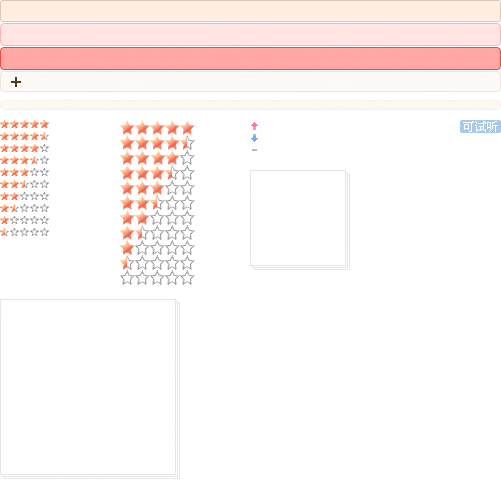
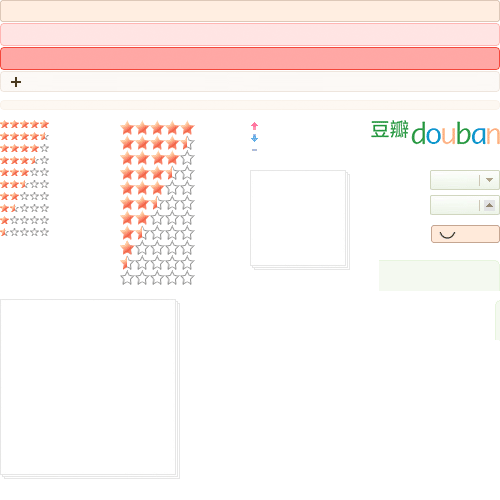
header & footer complete.

diff --git a/docs/test_header.html b/docs/test_header.html
@@ -7,10 +7,10 @@
 	<link rel="stylesheet" href="core.css" type="text/css" media="screen" charset="utf-8">
 
 	<style>
-.db-nav { width:950px;margin:0 auto; }
-.db-nav:after,.nav-sub:after { content:'\0020';display:block;clear:both;height:0; }
-.db-nav .hot { margin-left:1.2em; }
-.db-nav a.hot:link, .db-nav a.hot:link, .db-nav a.hot:hover, .db-nav a.hot:active { color:#e15225; }
+.db-nav { width:100%;margin:0 auto; }
+.db-nav:after, .nav-sub:after { content:'\0020';display:block;clear:both;height:0; }
+.db-nav a.hot { margin-left:1.2em; }
+.db-nav .nav-item a.hot, .db-nav a.hot, .db-nav a.hot:link, .db-nav a.hot:link, .db-nav a.hot:hover, .db-nav a.hot:active { color:#e15225; }
 .nav-logo, .nav-item, .nav-sub { float:left; }
 .nav-logo { background:url(core.png) no-repeat -356px -116px; } 
 .nav-logo a { display:block;width:165px;height:34px;overflow:hidden;line-height:20; }
@@ -19,24 +19,45 @@
 .nav-item li { float:left;margin:0 .5ex; }
 .nav-item li a, .nav-item li a:link, .nav-item li a:visited, .nav-item li a:hover, .nav-item li a:active { display:block;font-size:14px;color:#368332;padding:.5ex 1.2ex .2ex 1.2ex; } 
 .nav-item li a:hover, .nav-item li a:active { background-color:transparent;text-decoration:underline; }
-.nav-item li.on { background:url(core.png) no-repeat 100% -280px; }
-.nav-item li.on a, .nav-item li.on a:link, .nav-item li.on a:visited, .nav-item li.on a:hover, .nav-item li.on a:active { color:#000;background:url(core.png) no-repeat -496px -320px; } 
+.nav-item li.on { background:url(core.png) no-repeat 100% -260px; }
+.nav-item li.on a, .nav-item li.on a:link, .nav-item li.on a:visited, .nav-item li.on a:hover, .nav-item li.on a:active { color:#000;background:url(core.png) no-repeat -495px -300px; } 
 .nav-srh { float:right;margin:1.6ex 0 0 0;}
 .nav-srh fieldset { _display:inline; }
 .nav-srh legend { display:none; }
-.db-nav .srh-item, .db-nav .srh-submit { float:left; } 
-.srh-item input { border:1px solid #d6d6d6;padding:2px;margin-right:1ex;line-height:1.1;height:14px;*float:left; }
-.srh-submit { height:20px;background:url(core.png) no-repeat -380px -170px; }
-.srh-submit input { border:0;background:transparent;font-size:12px;padding:3px 0;width:4em;text-align:center;cursor:pointer; }
-.srh-submit a {}
+.nav-srh .srh-item, .db-nav .srh-submit { float:left; } 
+.nav-srh .srh-item input { border:1px solid #d6d6d6;padding:2px;margin-right:1ex;line-height:1.1;height:14px;*float:left; }
+.nav-srh .srh-submit { position:relative;width:70px;height:20px;background:url(core.png) no-repeat -430px -170px; }
+.nav-srh .on { background-position:-430px -195px; }
+.nav-srh .srh-submit input { border:0;background:transparent;font-size:12px;padding:3px 0;width:50px;text-align:center;cursor:pointer; }
+.nav-srh .srh-submit a { position:absolute;right:4px;top:4px;width:12px;height:12px;overflow:hidden;line-height:4; }
+.nav-srh .srh-submit a:hover,.nav-srh .srh-submit a:active { background-color:transparent; } 
+.srh-opt { position:absolute;width:70px;padding:5px 0;text-align:center;z-index:1;border:1px solid #c5cfad;background:#fff; }
+.srh-opt li { width:100%; } 
+.srh-opt a { display:block; } 
+.nav-srh .srh-opt { display:none; }
 .nav-sub { clear:both;width:100%;border-top:1px solid #e8f5df;background:#f3f9ef;padding:.4em 0; }
 .nav-subitem { float:left;width:100%;margin-right:-200em;text-align:center; }
 .nav-subitem ul { margin-left:-20%; } 
 .nav-info { position:relative;float:right; }
 .nav-info a { margin-right:1.5ex; }
 .nav-subitem li { display:inline;margin:0 1em; }
-	</style>
-	
+
+/* Footer Rules */
+.db-services { width:100%;margin-bottom:1em;overflow:hidden;line-height:2;border-top:1px dashed #ddd;color:#999;padding-top:.2ex; }
+.db-services .services { float:left;margin-right:4em;*margin-right:2.6em; }
+.db-services .basic { width:100%;overflow:hidden;margin:0; } 
+.db-services .basic li { float:left;margin-right:4.2em; *margin-right:3.6em; } 
+.db-services .last,
+.db-services .basic .last { margin:0; }
+.db-services a.first:link, .db-services a.first:visited { color:#369; }
+.db-services a.first:hover, .db-services a.first:active { color:#fff;background:#039; }
+.db-services a:link, .db-services a:visited { color:#999; }
+.db-services a:hover, .db-services a:active { color:#fff;background:#999; }
+.db-inc { clear:both;color:#999;padding-bottom:1em; }
+.db-inc .about { float:right; }
+
+</style>
+
 </head>
 <body>
 
@@ -51,9 +72,19 @@
 		<fieldset>
 			<legend>搜索：</legend>
 			<span class="srh-item"><input name="search_text" title="书籍、电影、音乐" type="text" size="22" maxlength="60" value=""></span>
-			<span class="srh-submit"><input type="submit" value="搜索"><a href="#">更多</a></span>
+			<span class="srh-submit"><input type="submit" value="搜 索"><a href="#">更多</a></span>
 		</fieldset>
 	</form>
+	<div class="srh-opt">
+		<ul>
+			<li> <a href="/subject_search?cat=1001">书籍</a> </li>
+			<li> <a href="/subject_search?cat=1002">电影</a> </li>
+			<li> <a href="/subject_search?cat=1003">音乐</a> </li>
+			<li> <a href="/group/search">小组</a> </li>
+			<li> <a href="/people_search">成员</a> </li>
+			<li> <a href="/event/search">活动</a> </li>
+		</ul>
+	</div>
 	</div>
 
 	<div class="nav-item">
@@ -86,6 +117,66 @@
 </div>
 
 content...
+
+<div id="ft" style="width:950px;margin:0 auto;">
 	
+
+<h3>登录前</h3>
+
+<div class="db-services">
+<div class="services basic">
+<ul>
+	<li><a href="/book/" class="first">读书</a> - <a href="/book/review/best/">热评</a> - <a href="/book/chart">排行榜</a> - <a href="/book/browse">分类浏览</a></li>
+	<li><a href="/music/" class="first">音乐</a> - <a href="/artists/">音乐人</a> - <a href="/music/review/best/">热评</a> - <a href="/music/chart">排行榜</a> - <a href="/music/tag/">分类浏览</a></li>
+	<li><a href="/movie/" class="first">电影</a> - <a href="/movie/review/best/">热评</a> - <a href="/movie/chart">排行榜</a> - <a href="/movie/tag/">分类浏览</a> - <a href="/movie/tv/">电视剧</a></li>
+	<li class="last"><a href="/event/" class="first">同城</a> - <a href="/hosts/">主办方</a> - <a href="/location/world/">其他城市</a> - <a href="/online/">线上活动</a></li>
+</ul>
+</div>
+</div>
+<div class="db-inc">
+<span class="about">
+<a href="/about">关于豆瓣</a> &#183; <a href="/about?topic=contactus">联系我们</a> &#183; <a href="/about?policy=disclaimer">免责声明</a> &#183; <a href="/help/">帮助中心</a> &#183; <a href="/service/">豆瓣服务(API)</a> &#183; <a href="/partner/">品牌合作</a>
+</span>
+<span class="copyright">&copy; 2005－2009 douban.com, all rights reserved</span>
+</div>
+
+
+<h3>登录后</h3>
+
+<div class="db-services">
+<div class="services">
+<ul>
+	<li><a href="/mine/" class="first">我的豆瓣</a> - <a href="/mine/notes">日记</a> - <a href="/mine/photos">相册</a> - <a href="/mine/discussions">评论和讨论</a> - <a href="/mine/board">留言板</a></li>
+	<li><a href="/contacts/" class="first">友邻广播</a> - <a href="/contacts/listfriends">我的朋友</a> - <a href="/contacts/list">我关注的人</a> - <a href="/contacts/find">找朋友</a></li>
+	<li><a href="/group/" class="first">小组首页</a> - <a href="/group/mine">我的小组</a> - <a href="/group/my_topics">我的发言</a> - <a href="/group/discover">更多小组</a></li>
+</ul>
+</div>
+
+<div class="services">
+<ul>
+	<li><a href="/book/" class="first">读书</a> - <a href="/book/review/best/">热评</a> - <a href="/book/chart">排行榜</a> - <a href="/book/browse">分类浏览</a> - <a href="/book/mine">我读</a> - <a href="/book/recommended">豆瓣猜</a></li>
+	<li><a href="/movie/" class="first">电影</a> - <a href="/movie/review/best/">热评</a> - <a href="/movie/chart">排行榜</a> - <a href="/movie/tag/">分类浏览</a> - <a href="/movie/tv/">电视剧</a> - <a href="/movie/mine/">我看</a> - <a href="/movie/recommended/">豆瓣猜</a></li>
+</ul>
+</div>
+	
+<div class="services last">
+<ul>
+	<li><a href="/music/" class="first">音乐</a> - <a href="/artists/">音乐人</a> - <a href="/music/review/best/">热评</a> - <a href="/music/chart">排行榜</a> - <a href="/music/tag/">分类浏览</a> - <a href="/music/mine">我的音乐</a> - <a href="/music/recommended">豆瓣猜</a></li>
+	<li><a href="/event/" class="first">同城</a> - <a href="/hosts/">主办方</a> - <a href="/location/world/">其他城市</a> - <a href="/online/">线上活动</a> - <a href="/event/mine">我的同城</a></li>
+</ul>
+</div>
+</div>
+
+<div class="db-inc">
+<span class="about">
+<a href="/about">关于豆瓣</a> &#183; <a href="/about?topic=contactus">联系我们</a> &#183; <a href="/about?policy=disclaimer">免责声明</a> &#183; <a href="/help/">帮助中心</a> &#183; <a href="/service/">豆瓣服务(API)</a> &#183; <a href="/partner/">品牌合作</a>
+</span>
+<span class="copyright">&copy; 2005－2009 douban.com, all rights reserved</span>
+</div>
+
+</div>
+
+
+
 </body>
 </html>

diff --git a/test/all.html b/test/all.html
@@ -22,6 +22,168 @@
 		豆瓣UI库
 	</h1>
 
+
+<div id="name" class="mod" style="width:950px;margin:0 auto;">
+	<div class="bd">
+
+
+
+
+<div class="db-nav">
+	<div class="nav-logo">
+	  <a href="http://www.douban.com">豆瓣网</a>
+	</div>
+
+	<div class="nav-srh">
+	<form name="ssform" method="get" action="http://www.douban.com/subject_search">
+		<fieldset>
+			<legend>搜索：</legend>
+			<span class="srh-item"><input name="search_text" title="书籍、电影、音乐" type="text" size="22" maxlength="60" value=""></span>
+			<span class="srh-submit"><input type="submit" value="搜 索"><a href="#">更多</a></span>
+		</fieldset>
+	</form>
+	<div class="srh-opt">
+		<ul>
+			<li> <a href="/subject_search?cat=1001">书籍</a> </li>
+			<li> <a href="/subject_search?cat=1002">电影</a> </li>
+			<li> <a href="/subject_search?cat=1003">音乐</a> </li>
+			<li> <a href="/group/search">小组</a> </li>
+			<li> <a href="/people_search">成员</a> </li>
+			<li> <a href="/event/search">活动</a> </li>
+		</ul>
+	</div>
+	</div>
+
+	<div class="nav-item">
+		<ul>
+			<li><a href="http://www.douban.com">首页</a></li>
+			<li class="on"><a href="http://www.douban.com/group">小组</a></li>
+			<li><a href="http://www.douban.com/book">读书</a></li>
+			<li><a href="http://www.douban.com/movie">电影</a></li>
+			<li><a href="http://www.douban.com/music">音乐</a></li>
+			<li><a href="http://www.douban.com/event">同城</a></li>
+			<li><a href="http://9.douban.com" class="hot">九点</a></li>
+		</ul>
+	</div>
+
+
+	<div class="nav-sub">
+		<div class="nav-subitem">
+			<ul>
+				<li><a href="http://www.douban.com/group/mine">我的小组</a></li>
+				<li><a href="http://www.douban.com/group/my_topics">我的发言</a></li>
+				<li><a href="http://www.douban.com/group/discover">更多小组</a></li>
+			</ul>
+		</div>
+		<div class="nav-info">
+			<a href="http://www.douban.com/doumail">豆邮<em>(2)</em></a>
+			<a href="http://www.douban.com/settings">kejun的设置</a>
+			<a href="http://www.douban.com/logout?ck=B8_q">退出</a>
+		</div>
+	</div>
+</div>
+
+
+
+
+	  
+	</div>
+</div>
+
+
+
+
+
+
+<div id="name" class="mod" style="width:950px;margin:0 auto;">
+  <div class="hd">
+<h3>登录前</h3>
+	</div>
+	<div class="bd">
+
+
+
+<div class="db-services">
+<div class="services basic">
+<ul>
+	<li><a href="/book/" class="first">读书</a> - <a href="/book/review/best/">热评</a> - <a href="/book/chart">排行榜</a> - <a href="/book/browse">分类浏览</a></li>
+	<li><a href="/music/" class="first">音乐</a> - <a href="/artists/">音乐人</a> - <a href="/music/review/best/">热评</a> - <a href="/music/chart">排行榜</a> - <a href="/music/tag/">分类浏览</a></li>
+	<li><a href="/movie/" class="first">电影</a> - <a href="/movie/review/best/">热评</a> - <a href="/movie/chart">排行榜</a> - <a href="/movie/tag/">分类浏览</a> - <a href="/movie/tv/">电视剧</a></li>
+	<li class="last"><a href="/event/" class="first">同城</a> - <a href="/hosts/">主办方</a> - <a href="/location/world/">其他城市</a> - <a href="/online/">线上活动</a></li>
+</ul>
+</div>
+</div>
+<div class="db-inc">
+<span class="about">
+<a href="/about">关于豆瓣</a> &#183; <a href="/about?topic=contactus">联系我们</a> &#183; <a href="/about?policy=disclaimer">免责声明</a> &#183; <a href="/help/">帮助中心</a> &#183; <a href="/service/">豆瓣服务(API)</a> &#183; <a href="/partner/">品牌合作</a>
+</span>
+<span class="copyright">&copy; 2005－2009 douban.com, all rights reserved</span>
+</div>
+
+
+
+
+
+
+	  
+	</div>
+</div>
+
+
+
+
+
+
+
+
+<div id="name" class="mod" style="width:950px;margin:0 auto;">
+  <div class="hd">
+<h3>登录后</h3>
+	</div>
+	<div class="bd">
+
+<div class="db-services">
+<div class="services">
+<ul>
+	<li><a href="/mine/" class="first">我的豆瓣</a> - <a href="/mine/notes">日记</a> - <a href="/mine/photos">相册</a> - <a href="/mine/discussions">评论和讨论</a> - <a href="/mine/board">留言板</a></li>
+	<li><a href="/contacts/" class="first">友邻广播</a> - <a href="/contacts/listfriends">我的朋友</a> - <a href="/contacts/list">我关注的人</a> - <a href="/contacts/find">找朋友</a></li>
+	<li><a href="/group/" class="first">小组首页</a> - <a href="/group/mine">我的小组</a> - <a href="/group/my_topics">我的发言</a> - <a href="/group/discover">更多小组</a></li>
+</ul>
+</div>
+
+<div class="services">
+<ul>
+	<li><a href="/book/" class="first">读书</a> - <a href="/book/review/best/">热评</a> - <a href="/book/chart">排行榜</a> - <a href="/book/browse">分类浏览</a> - <a href="/book/mine">我读</a> - <a href="/book/recommended">豆瓣猜</a></li>
+	<li><a href="/movie/" class="first">电影</a> - <a href="/movie/review/best/">热评</a> - <a href="/movie/chart">排行榜</a> - <a href="/movie/tag/">分类浏览</a> - <a href="/movie/tv/">电视剧</a> - <a href="/movie/mine/">我看</a> - <a href="/movie/recommended/">豆瓣猜</a></li>
+</ul>
+</div>
+	
+<div class="services last">
+<ul>
+	<li><a href="/music/" class="first">音乐</a> - <a href="/artists/">音乐人</a> - <a href="/music/review/best/">热评</a> - <a href="/music/chart">排行榜</a> - <a href="/music/tag/">分类浏览</a> - <a href="/music/mine">我的音乐</a> - <a href="/music/recommended">豆瓣猜</a></li>
+	<li><a href="/event/" class="first">同城</a> - <a href="/hosts/">主办方</a> - <a href="/location/world/">其他城市</a> - <a href="/online/">线上活动</a> - <a href="/event/mine">我的同城</a></li>
+</ul>
+</div>
+</div>
+
+<div class="db-inc">
+<span class="about">
+<a href="/about">关于豆瓣</a> &#183; <a href="/about?topic=contactus">联系我们</a> &#183; <a href="/about?policy=disclaimer">免责声明</a> &#183; <a href="/help/">帮助中心</a> &#183; <a href="/service/">豆瓣服务(API)</a> &#183; <a href="/partner/">品牌合作</a>
+</span>
+<span class="copyright">&copy; 2005－2009 douban.com, all rights reserved</span>
+</div>
+
+
+	  
+	</div>
+</div>
+
+
+
+
+
+
+
 	<div id="name" class="mod">
 	  <div class="hd">
 		  

diff --git a/docs/core.css b/docs/core.css
@@ -60,8 +60,55 @@ a img { margin-bottom:-3px; }
 .mod { margin-bottom:1.4em; }
 
 /* Header */
+.db-nav { width:100%;margin:0 auto; }
+.db-nav:after, .nav-sub:after { content:'\0020';display:block;clear:both;height:0; }
+.db-nav a.hot { margin-left:1.2em; }
+.db-nav .nav-item a.hot, .db-nav a.hot, .db-nav a.hot:link, .db-nav a.hot:link, .db-nav a.hot:hover, .db-nav a.hot:active { color:#e15225; }
+.nav-logo, .nav-item, .nav-sub { float:left; }
+.nav-logo { background:url(../assets/ui/core.png) no-repeat -356px -116px; } 
+.nav-logo a { display:block;width:165px;height:34px;overflow:hidden;line-height:20; }
+.nav-logo a:hover, .nav-logo a:active { background-color:transparent; } 
+.nav-item { position:relative;margin-top:1.5ex;margin-bottom:-1px; }
+.nav-item li { float:left;margin:0 .5ex; }
+.nav-item li a, .nav-item li a:link, .nav-item li a:visited, .nav-item li a:hover, .nav-item li a:active { display:block;font-size:14px;color:#368332;padding:.5ex 1.2ex .2ex 1.2ex; } 
+.nav-item li a:hover, .nav-item li a:active { background-color:transparent;text-decoration:underline; }
+.nav-item li.on { background:url(../assets/ui/core.png) no-repeat 100% -260px; }
+.nav-item li.on a, .nav-item li.on a:link, .nav-item li.on a:visited, .nav-item li.on a:hover, .nav-item li.on a:active { color:#000;background:url(../assets/ui/core.png) no-repeat -495px -300px; } 
+.nav-srh { float:right;margin:1.6ex 0 0 0;}
+.nav-srh fieldset { _display:inline; }
+.nav-srh legend { display:none; }
+.nav-srh .srh-item, .db-nav .srh-submit { float:left; } 
+.nav-srh .srh-item input { border:1px solid #d6d6d6;padding:2px;margin-right:1ex;line-height:1.1;height:14px;*float:left; }
+.nav-srh .srh-submit { position:relative;width:70px;height:20px;background:url(../assets/ui/core.png) no-repeat -430px -170px; }
+.nav-srh .on { background-position:-430px -195px; }
+.nav-srh .srh-submit input { border:0;background:transparent;font-size:12px;padding:3px 0;width:50px;text-align:center;cursor:pointer; }
+.nav-srh .srh-submit a { position:absolute;right:4px;top:4px;width:12px;height:12px;overflow:hidden;line-height:4; }
+.nav-srh .srh-submit a:hover,.nav-srh .srh-submit a:active { background-color:transparent; } 
+.srh-opt { position:absolute;width:70px;padding:5px 0;text-align:center;z-index:1;border:1px solid #c5cfad;background:#fff; }
+.srh-opt li { width:100%; } 
+.srh-opt a { display:block; } 
+.nav-srh .srh-opt { display:none; }
+.nav-sub { clear:both;width:100%;border-top:1px solid #e8f5df;background:#f3f9ef;padding:.4em 0; }
+.nav-subitem { float:left;width:100%;margin-right:-200em;text-align:center; }
+.nav-subitem ul { margin-left:-20%; } 
+.nav-info { position:relative;float:right; }
+.nav-info a { margin-right:1.5ex; }
+.nav-subitem li { display:inline;margin:0 1em; }
 
-/* footer */
+/* Footer */
+.db-services { width:100%;margin-bottom:1em;overflow:hidden;line-height:2;border-top:1px dashed #ddd;color:#999;padding-top:.2ex; }
+.db-services .services { float:left;margin-right:4em;*margin-right:2.6em; }
+.db-services .basic { width:100%;overflow:hidden;margin:0; } 
+.db-services .basic li { float:left;margin-right:4.2em; *margin-right:3.6em; } 
+.db-services .last,
+.db-services .basic .last { margin:0; }
+.db-services a.first:link, .db-services a.first:visited { color:#369; }
+.db-services a.first:hover, .db-services a.first:active { color:#fff;background:#039; }
+.db-services a:link, .db-services a:visited { color:#999; }
+.db-services a:hover, .db-services a:active { color:#fff;background:#999; }
+.db-inc { clear:both;color:#999;padding-bottom:1em; }
+.db-inc .about { float:right; }
+
 
 /* Modules - List */
 .list-s li { float:left;text-align:center; }
